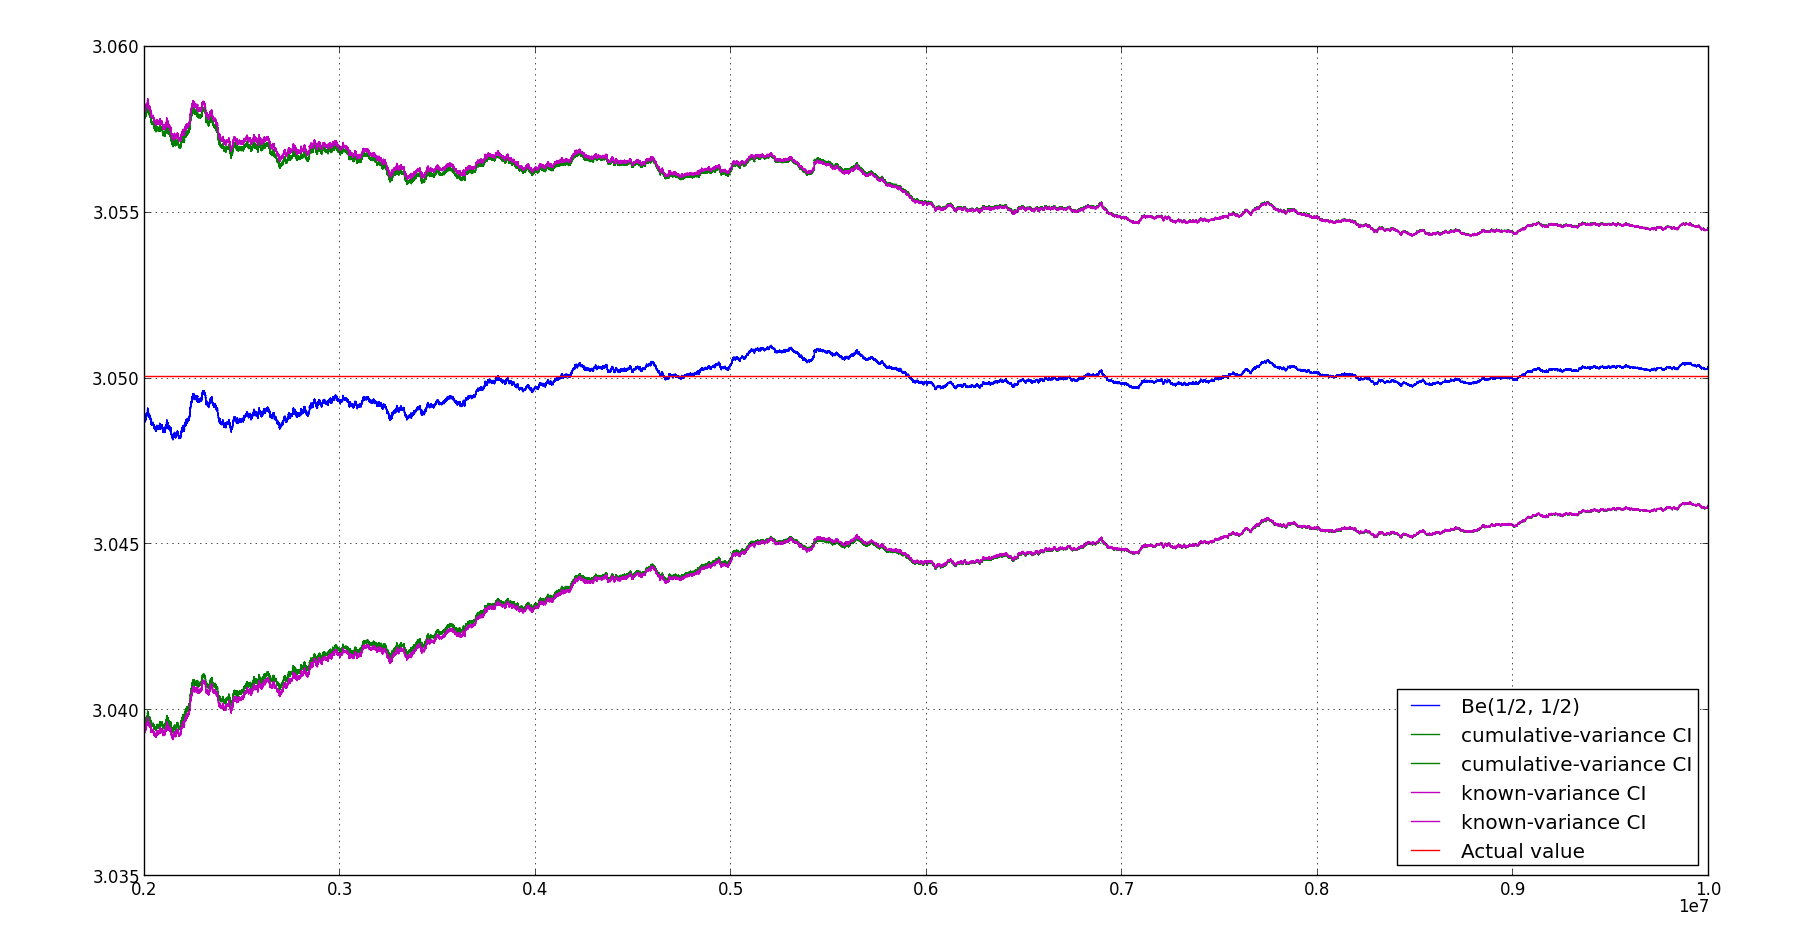
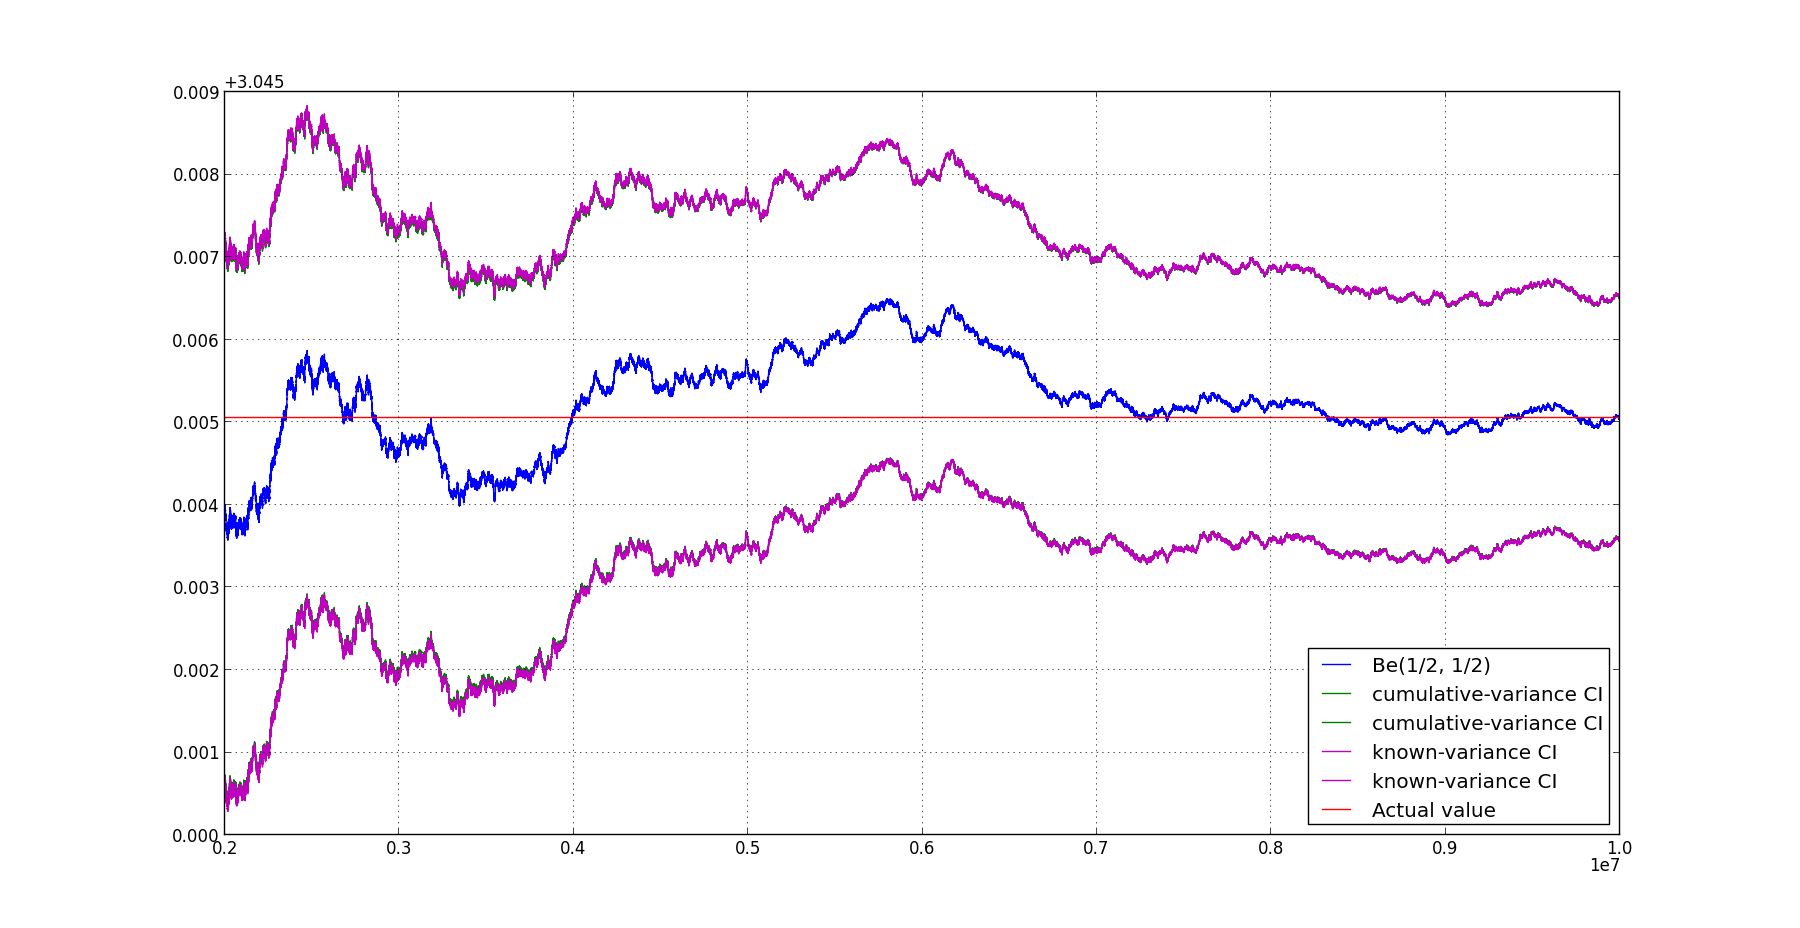
Stat CI fix

diff --git a/Stat/ConfidenceInterval/task1.py b/Stat/ConfidenceInterval/task1.py
@@ -15,9 +15,12 @@ xPlot = list(range(N))[N / lDataStrip:]
 
 # ------ Setup Statistics
 # Реальная дисперсия оценки Be(1/3,1)
-Var1 = quad(lambda x: 3 * (f(x) ** 2) * (x ** (2.0 / 3)), 0, 1)[0] - ACTUAL_VALUE ** 2
+pdf1 = lambda x: beta.pdf(x, 1.0 / 3, 1)
+var1 = quad(lambda x: f(x) ** 2 / pdf1(x), 0, 1)[0] - ACTUAL_VALUE ** 2
+
 # Реальная дисперсия оценки Be(1/2,1/2)
-Var2 = quad(lambda x: np.pi * (f(x) ** 2) * (np.sqrt(x * (1 - x))), 0, 1)[0] - ACTUAL_VALUE ** 2
+pdf2 = lambda x: beta.pdf(x, 0.5, 0.5)
+var2 = quad(lambda x: f(x) ** 2 / pdf2(x), 0, 1)[0] - ACTUAL_VALUE ** 2
 xGamma = norm.ppf(0.95)
 #---------- END SETUP
 
@@ -50,7 +53,7 @@ def calc_ci(a, var=None):
         variance = cumulative_variance(a)
 
     cummeanData = cumulative_mean(a)
-    q = xGamma / index * variance
+    q = xGamma / index * np.sqrt(variance)
 
     return cummeanData - q, cummeanData + q
 
@@ -91,5 +94,5 @@ def solve(sample, pdf, label, var):
 if __name__ == "__main__":
     # generate_samples()
 
-    # solve(sample=(np.load('rv1_sample.npy')), pdf=(np.load('rv1_pdf.npy')), label="Be(1/3, 1)", var=Var1)
-    solve(sample=(np.load('rv2_sample.npy')), pdf=(np.load('rv2_pdf.npy')), label="Be(1/2, 1/2)", var=Var2)
+    #solve(sample=(np.load('rv1_sample.npy')), pdf=(np.load('rv1_pdf.npy')), label="Be(1/3, 1)", var=var1)
+    solve(sample=(np.load('rv2_sample.npy')), pdf=(np.load('rv2_pdf.npy')), label="Be(1/2, 1/2)", var=var2)
